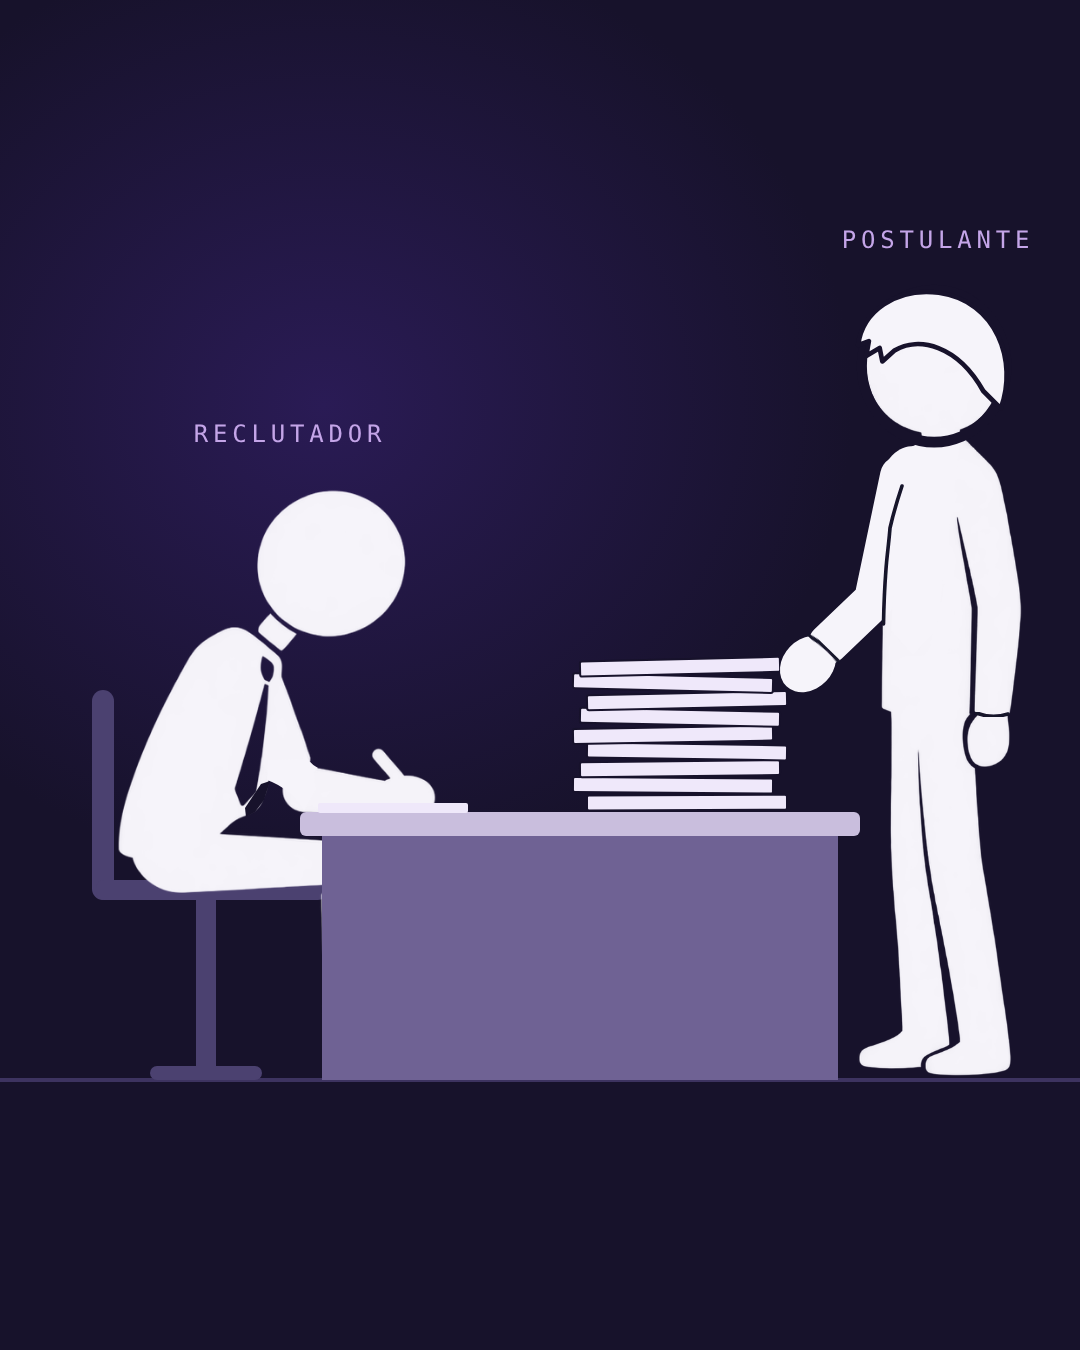
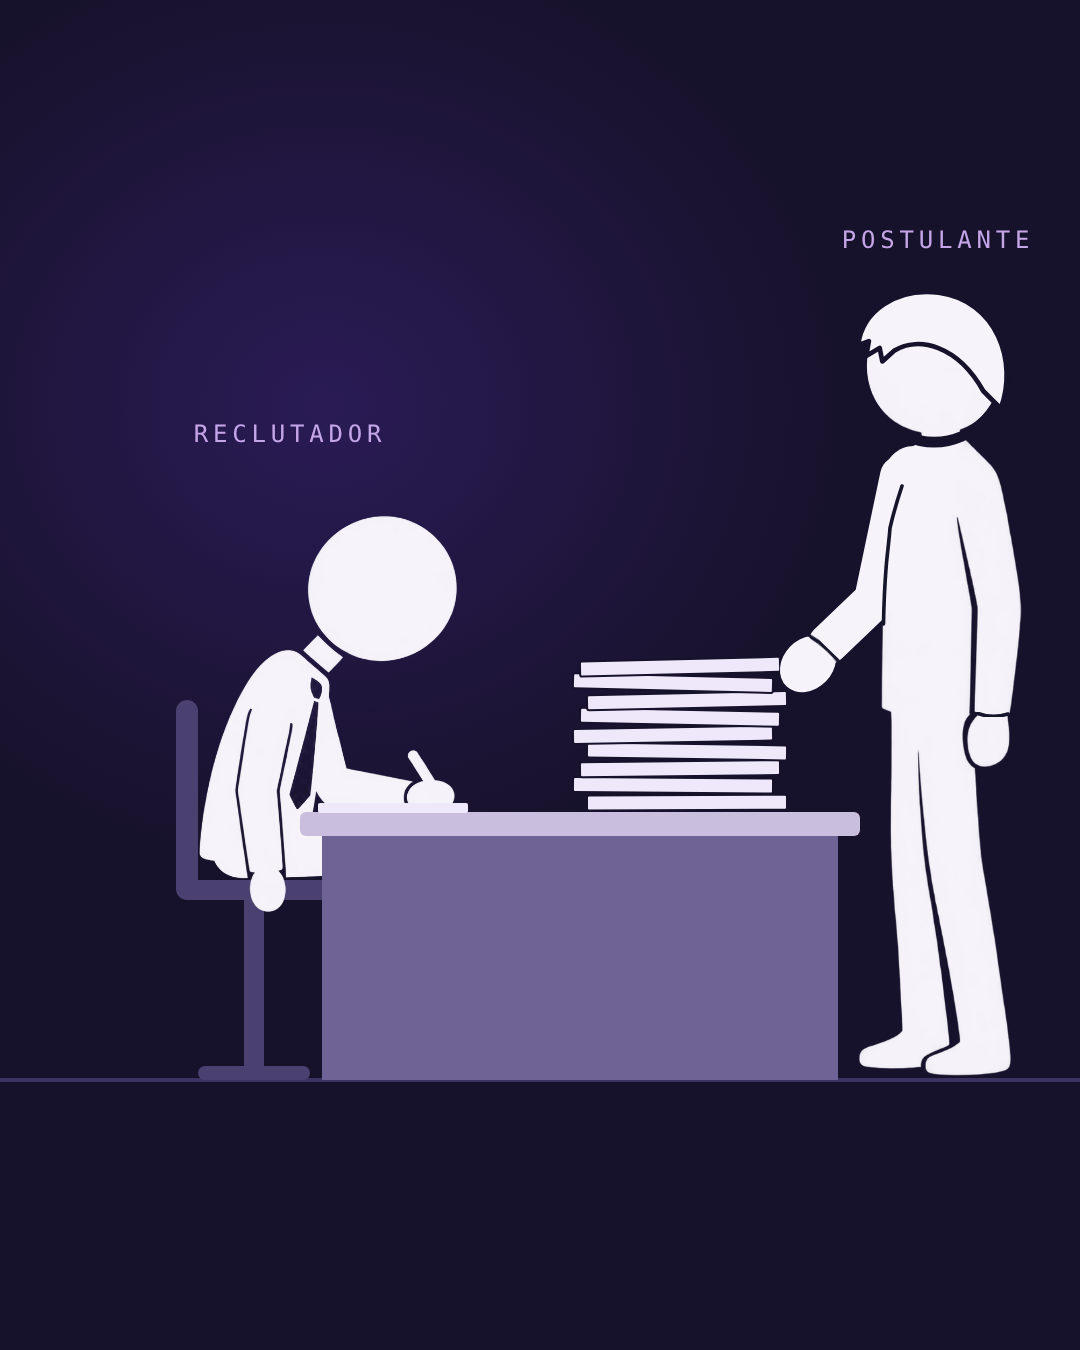
feat(video): swap in the regenerated seated recruiter
Replace the patched seated figure with the user's regenerated pose:
writes with the far arm, near arm hanging, straight torso front. Same
white recolour, scaled to keep the previous head size, pen hand on the
writing sheet. The elbow and belly patches are no longer needed and are
removed; the chair moves to sit behind the new back.

Claude-Session: https://claude.ai/code/session_01TNESLuQNUwZZ73yDMFRmWn

Changed region(s): [[0.0611, 0.3422, 0.4278, 0.8089]]

diff --git a/videos/cv-ya-no-basta/elementos/escena1-still.html b/videos/cv-ya-no-basta/elementos/escena1-still.html
@@ -11,26 +11,13 @@
   <div class="abs" style="left:0;right:0;top:1078px;height:4px;background:#3d3360"></div>
 
   <!-- silla -->
-  <div class="abs" style="left:92px;top:690px;width:22px;height:210px;border-radius:11px;background:#4b4170"></div>
-  <div class="abs" style="left:96px;top:880px;width:230px;height:20px;border-radius:8px;background:#4b4170"></div>
-  <div class="abs" style="left:196px;top:900px;width:20px;height:178px;background:#4b4170"></div>
-  <div class="abs" style="left:150px;top:1066px;width:112px;height:14px;border-radius:7px;background:#4b4170"></div>
+  <div class="abs" style="left:176px;top:700px;width:22px;height:200px;border-radius:11px;background:#4b4170"></div>
+  <div class="abs" style="left:180px;top:880px;width:150px;height:20px;border-radius:8px;background:#4b4170"></div>
+  <div class="abs" style="left:244px;top:900px;width:20px;height:178px;background:#4b4170"></div>
+  <div class="abs" style="left:198px;top:1066px;width:112px;height:14px;border-radius:7px;background:#4b4170"></div>
   <!-- reclutador: queda DETRÁS del escritorio -->
-  <img class="abs" src="personaje/reclutador-sentado-blanco.png" style="left:110px;top:480px;height:600px">
+  <img class="abs" src="personaje/reclutador-sentado-v2-blanco.png" style="left:-49px;top:459px;width:729px">
 
-  <!-- codo del reclutador: rellena la media luna oscura entre brazo y antebrazo -->
-  <svg class="abs" style="left:0;top:0" width="1080" height="1350">
-    <!-- un solo codo: el brazo baja y dobla hacia la mesa en una curva continua,
-         tapando la costura y el bulto redondo de la punta del antebrazo -->
-    <path d="M268 760 L305 759 Q310 764 313 768 L316 790 L304 811 Q290 788 267 780 Z"
-      fill="#f6f4fa"/>
-    <!-- pliegue interior del codo: sin escalón entre brazo y antebrazo -->
-    <path d="M305 752 Q308 763 318 768 L314 772 L302 762 Z" fill="#f6f4fa"/>
-  </svg>
-  <!-- sin panza: el frente del torso baja recto desde la corbata hasta el regazo -->
-  <svg class="abs" style="left:0;top:0" width="1080" height="1350">
-    <path d="M261 784 L270 781 L264 800 L255 812 L246 817 L245 808 Z" fill="#17122b"/>
-  </svg>
   <!-- pila de CVs sobre el escritorio -->
   <svg class="abs" style="left:560px;top:640px" width="260" height="190" viewBox="0 0 260 190">
     <g id="pila"></g>
